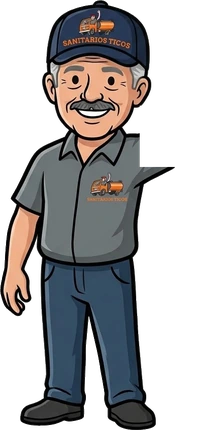
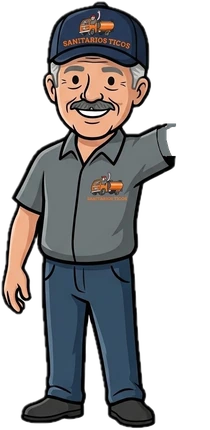
Cortar a Frank por la costura y darle respiración
EL RECORTE QUE SE VEÍA. El corte anterior partía el hombro con una
línea vertical y al girar el brazo quedaba a la vista. Ahora sigue la
costura de la manga: se detecta por color dónde empieza la piel en cada
fila —el gris de la camisa y el durazno del brazo se separan solos— y
se corta cinco píxeles antes para llevarse el contorno. La manga se
queda en el cuerpo y tapa la juntura, y el hueco de abajo se pinta del
gris de la camisa sin salirse de la silueta.

EL ORIGINAL. Llegó el PNG con transparencia de verdad, con casi treinta
mil píxeles semitransparentes de borde suavizado. Todo se rehizo desde
ahí en vez de desde mi reconstrucción del JPEG.

VIDA. Respira: pixel y medio cada 4,2 segundos, en un envoltorio propio
para que no se pelee con el transform de entrada y salida. Y al abrir
el chat baja el brazo y se mete detrás del botón en vez de desaparecer
de un frame, que se lee como un error.

Se descartaron el parpadeo y el giro de cabeza: a 44px la cara son
catorce píxeles y los ojos dos, así que serían ruido y no vida.

Un bug de paso: el envoltorio que respira es un span y lo cazaba la
regla que esconde las etiquetas en el teléfono, así que el botón salía
vacío. La regla ahora sólo alcanza a los hijos directos.

diff --git a/styles.css b/styles.css
@@ -954,16 +954,27 @@ body.fabs-fuera .wa-fab {
   position: absolute; left: .55rem; bottom: 0;
   width: 44px; height: 90px;
 }
+/* Dos envoltorios y no uno: `.frank` se encarga de entrar y salir,
+   `.frank-vivo` de respirar. Si compartieran elemento se pelearían por
+   el mismo `transform` y uno le pisaría el otro. */
+.asistente-fab .frank-vivo {
+  position: absolute; inset: 0;
+  animation: frankRespira 4.2s ease-in-out infinite;
+}
 .asistente-fab .frank img {
   position: absolute; inset: 0; width: 100%; height: 100%;
-  /* Un dibujo de línea encogido a 44px se ensucia si el navegador lo
-     suaviza de más. */
-  image-rendering: auto;
 }
 .asistente-fab .frank-brazo {
-  /* El hombro, medido sobre el dibujo original. */
-  transform-origin: 69.2% 35.3%;
+  /* El hombro, medido sobre el dibujo. El corte del brazo sigue la
+     costura de la manga —no una línea recta— así que la manga se queda
+     en el cuerpo y tapa la juntura mientras el brazo gira. */
+  transform-origin: 76% 33.7%;
   animation: frankSaluda 6s var(--ease-soft) infinite;
+}
+/* Respira. Un pixel y medio en noventa: no se ve, se siente. */
+@keyframes frankRespira {
+  0%, 100% { transform: translateY(0); }
+  50%      { transform: translateY(-1.5px); }
 }
 /* Saluda tres veces y descansa. Un muñeco que se mueve sin parar deja
    de ser simpático a los diez segundos. */
@@ -975,10 +986,29 @@ body.fabs-fuera .wa-fab {
   78% { transform: rotate(-4deg); }
   82% { transform: rotate(-17deg); }
 }
-/* Al pasarle el mouse saluda de una, sin esperar el turno. */
+/* Al pasarle el mouse saluda de una, sin esperar el turno, y se
+   endereza un poco. */
 .asistente-fab:hover .frank-brazo { animation: frankSaluda 1.4s var(--ease-soft) infinite; animation-delay: -.86s; }
+.asistente-fab:hover .frank-vivo { animation-duration: 2.4s; }
+
+/* Al abrir el chat no desaparece de golpe: baja el brazo y se mete
+   detrás del botón. Desaparecer de un frame se lee como un error. */
+.asistente-fab .frank {
+  transition: transform .32s var(--ease), opacity .24s var(--ease);
+}
+.asistente.is-open .asistente-fab .frank.ico-abrir {
+  display: block;
+  transform: translateY(105%);
+  opacity: 0;
+  pointer-events: none;
+}
+.asistente.is-open .asistente-fab .frank-brazo { animation: none; transform: rotate(0deg); }
+.asistente.is-open .asistente-fab { padding-left: 0; }
+
 @media (prefers-reduced-motion: reduce) {
-  .asistente-fab .frank-brazo, .asistente-fab:hover .frank-brazo { animation: none; }
+  .asistente-fab .frank-brazo, .asistente-fab:hover .frank-brazo,
+  .asistente-fab .frank-vivo { animation: none; }
+  .asistente-fab .frank { transition: none; }
 }
 
 .asistente-cab .avatar img { border-radius: 50%; object-fit: cover; }
@@ -1299,7 +1329,10 @@ body.fabs-fuera .wa-fab {
      ancho es fijo — quedaban de 216px con el texto escondido, o sea dos
      manchas de color. El `:not(.frank)` es para que el muñeco no se
      esconda con el texto: acá él ES el botón. */
-  .wa-fab span, .asistente-fab span:not(.frank) { display: none; }
+  /* Sólo el hijo directo, que es la etiqueta. Sin el `>` esta regla
+     también escondía a `.frank-vivo`, el envoltorio que respira, y el
+     botón quedaba vacío en el teléfono. */
+  .wa-fab > span, .asistente-fab > span:not(.frank) { display: none; }
   .wa-fab, .asistente-fab { width: 3.4rem; min-height: 3.4rem; padding: 0; }
   .asistente-fab { padding-left: 0; }
   .asistente-fab .frank { left: 50%; margin-left: -21px; width: 42px; height: 86px; }

diff --git a/404.html b/404.html
@@ -25,7 +25,7 @@
 <link rel="preconnect" href="https://fonts.gstatic.com" crossorigin>
 <link rel="stylesheet" href="https://fonts.googleapis.com/css2?family=Archivo:wdth,wght@62..125,400..900&display=swap">
 
-<link rel="stylesheet" href="styles.css?v=20260908b">
+<link rel="stylesheet" href="styles.css?v=20260908c">
 <script>document.documentElement.classList.add("js");setTimeout(function(){var d=document.documentElement;if(!d.classList.contains("is-ready"))d.classList.add("rv-rescate");},3000);</script>
 </head>
 <body><header class="head" data-head>
@@ -118,7 +118,7 @@
 
 <div class="asistente" data-asistente>
   <button class="asistente-fab" type="button" data-asistente-abrir aria-expanded="false" aria-controls="asistente-panel">
-    <span class="frank ico-abrir" aria-hidden="true"><img class="frank-cuerpo" src="assets/img/frank-cuerpo.webp" alt="" width="209" height="430"><img class="frank-brazo" src="assets/img/frank-brazo.webp" alt="" width="209" height="430"></span>
+    <span class="frank ico-abrir" aria-hidden="true"><span class="frank-vivo"><img class="frank-cuerpo" src="assets/img/frank-cuerpo.webp" alt="" width="210" height="430"><img class="frank-brazo" src="assets/img/frank-brazo.webp" alt="" width="210" height="430"></span></span>
     <svg class="ico-cerrar" viewBox="0 0 24 24" aria-hidden="true"><path d="M6 6l12 12M18 6L6 18"/></svg>
     <span>Hablar con Frank</span>
   </button>

diff --git a/contacto.html b/contacto.html
@@ -25,7 +25,7 @@
 <link rel="preconnect" href="https://fonts.gstatic.com" crossorigin>
 <link rel="stylesheet" href="https://fonts.googleapis.com/css2?family=Archivo:wdth,wght@62..125,400..900&display=swap">
 
-<link rel="stylesheet" href="styles.css?v=20260908b">
+<link rel="stylesheet" href="styles.css?v=20260908c">
 <script>document.documentElement.classList.add("js");setTimeout(function(){var d=document.documentElement;if(!d.classList.contains("is-ready"))d.classList.add("rv-rescate");},3000);</script>
 <script type="application/ld+json">
 {
@@ -426,7 +426,7 @@
 
 <div class="asistente" data-asistente>
   <button class="asistente-fab" type="button" data-asistente-abrir aria-expanded="false" aria-controls="asistente-panel">
-    <span class="frank ico-abrir" aria-hidden="true"><img class="frank-cuerpo" src="assets/img/frank-cuerpo.webp" alt="" width="209" height="430"><img class="frank-brazo" src="assets/img/frank-brazo.webp" alt="" width="209" height="430"></span>
+    <span class="frank ico-abrir" aria-hidden="true"><span class="frank-vivo"><img class="frank-cuerpo" src="assets/img/frank-cuerpo.webp" alt="" width="210" height="430"><img class="frank-brazo" src="assets/img/frank-brazo.webp" alt="" width="210" height="430"></span></span>
     <svg class="ico-cerrar" viewBox="0 0 24 24" aria-hidden="true"><path d="M6 6l12 12M18 6L6 18"/></svg>
     <span>Hablar con Frank</span>
   </button>

diff --git a/index.html b/index.html
@@ -25,7 +25,7 @@
 <link rel="preconnect" href="https://fonts.gstatic.com" crossorigin>
 <link rel="stylesheet" href="https://fonts.googleapis.com/css2?family=Archivo:wdth,wght@62..125,400..900&display=swap">
 
-<link rel="stylesheet" href="styles.css?v=20260908b">
+<link rel="stylesheet" href="styles.css?v=20260908c">
 <script>document.documentElement.classList.add("js");setTimeout(function(){var d=document.documentElement;if(!d.classList.contains("is-ready"))d.classList.add("rv-rescate");},3000);</script>
 <script type="application/ld+json">
 {
@@ -349,7 +349,7 @@
 
 <div class="asistente" data-asistente>
   <button class="asistente-fab" type="button" data-asistente-abrir aria-expanded="false" aria-controls="asistente-panel">
-    <span class="frank ico-abrir" aria-hidden="true"><img class="frank-cuerpo" src="assets/img/frank-cuerpo.webp" alt="" width="209" height="430"><img class="frank-brazo" src="assets/img/frank-brazo.webp" alt="" width="209" height="430"></span>
+    <span class="frank ico-abrir" aria-hidden="true"><span class="frank-vivo"><img class="frank-cuerpo" src="assets/img/frank-cuerpo.webp" alt="" width="210" height="430"><img class="frank-brazo" src="assets/img/frank-brazo.webp" alt="" width="210" height="430"></span></span>
     <svg class="ico-cerrar" viewBox="0 0 24 24" aria-hidden="true"><path d="M6 6l12 12M18 6L6 18"/></svg>
     <span>Hablar con Frank</span>
   </button>

diff --git a/privacidad.html b/privacidad.html
@@ -25,7 +25,7 @@
 <link rel="preconnect" href="https://fonts.gstatic.com" crossorigin>
 <link rel="stylesheet" href="https://fonts.googleapis.com/css2?family=Archivo:wdth,wght@62..125,400..900&display=swap">
 
-<link rel="stylesheet" href="styles.css?v=20260908b">
+<link rel="stylesheet" href="styles.css?v=20260908c">
 <script>document.documentElement.classList.add("js");setTimeout(function(){var d=document.documentElement;if(!d.classList.contains("is-ready"))d.classList.add("rv-rescate");},3000);</script>
 </head>
 <body>
@@ -177,7 +177,7 @@
 
 <div class="asistente" data-asistente>
   <button class="asistente-fab" type="button" data-asistente-abrir aria-expanded="false" aria-controls="asistente-panel">
-    <span class="frank ico-abrir" aria-hidden="true"><img class="frank-cuerpo" src="assets/img/frank-cuerpo.webp" alt="" width="209" height="430"><img class="frank-brazo" src="assets/img/frank-brazo.webp" alt="" width="209" height="430"></span>
+    <span class="frank ico-abrir" aria-hidden="true"><span class="frank-vivo"><img class="frank-cuerpo" src="assets/img/frank-cuerpo.webp" alt="" width="210" height="430"><img class="frank-brazo" src="assets/img/frank-brazo.webp" alt="" width="210" height="430"></span></span>
     <svg class="ico-cerrar" viewBox="0 0 24 24" aria-hidden="true"><path d="M6 6l12 12M18 6L6 18"/></svg>
     <span>Hablar con Frank</span>
   </button>

diff --git a/nosotros.html b/nosotros.html
@@ -25,7 +25,7 @@
 <link rel="preconnect" href="https://fonts.gstatic.com" crossorigin>
 <link rel="stylesheet" href="https://fonts.googleapis.com/css2?family=Archivo:wdth,wght@62..125,400..900&display=swap">
 
-<link rel="stylesheet" href="styles.css?v=20260908b">
+<link rel="stylesheet" href="styles.css?v=20260908c">
 <script>document.documentElement.classList.add("js");setTimeout(function(){var d=document.documentElement;if(!d.classList.contains("is-ready"))d.classList.add("rv-rescate");},3000);</script>
 
 </head>
@@ -319,7 +319,7 @@
 
 <div class="asistente" data-asistente>
   <button class="asistente-fab" type="button" data-asistente-abrir aria-expanded="false" aria-controls="asistente-panel">
-    <span class="frank ico-abrir" aria-hidden="true"><img class="frank-cuerpo" src="assets/img/frank-cuerpo.webp" alt="" width="209" height="430"><img class="frank-brazo" src="assets/img/frank-brazo.webp" alt="" width="209" height="430"></span>
+    <span class="frank ico-abrir" aria-hidden="true"><span class="frank-vivo"><img class="frank-cuerpo" src="assets/img/frank-cuerpo.webp" alt="" width="210" height="430"><img class="frank-brazo" src="assets/img/frank-brazo.webp" alt="" width="210" height="430"></span></span>
     <svg class="ico-cerrar" viewBox="0 0 24 24" aria-hidden="true"><path d="M6 6l12 12M18 6L6 18"/></svg>
     <span>Hablar con Frank</span>
   </button>

diff --git a/servicios.html b/servicios.html
@@ -25,7 +25,7 @@
 <link rel="preconnect" href="https://fonts.gstatic.com" crossorigin>
 <link rel="stylesheet" href="https://fonts.googleapis.com/css2?family=Archivo:wdth,wght@62..125,400..900&display=swap">
 
-<link rel="stylesheet" href="styles.css?v=20260908b">
+<link rel="stylesheet" href="styles.css?v=20260908c">
 <script>document.documentElement.classList.add("js");setTimeout(function(){var d=document.documentElement;if(!d.classList.contains("is-ready"))d.classList.add("rv-rescate");},3000);</script>
 
 </head>
@@ -283,7 +283,7 @@
 
 <div class="asistente" data-asistente>
   <button class="asistente-fab" type="button" data-asistente-abrir aria-expanded="false" aria-controls="asistente-panel">
-    <span class="frank ico-abrir" aria-hidden="true"><img class="frank-cuerpo" src="assets/img/frank-cuerpo.webp" alt="" width="209" height="430"><img class="frank-brazo" src="assets/img/frank-brazo.webp" alt="" width="209" height="430"></span>
+    <span class="frank ico-abrir" aria-hidden="true"><span class="frank-vivo"><img class="frank-cuerpo" src="assets/img/frank-cuerpo.webp" alt="" width="210" height="430"><img class="frank-brazo" src="assets/img/frank-brazo.webp" alt="" width="210" height="430"></span></span>
     <svg class="ico-cerrar" viewBox="0 0 24 24" aria-hidden="true"><path d="M6 6l12 12M18 6L6 18"/></svg>
     <span>Hablar con Frank</span>
   </button>

diff --git a/panel.html b/panel.html
@@ -9,7 +9,7 @@
 <link rel="preconnect" href="https://fonts.googleapis.com">
 <link rel="preconnect" href="https://fonts.gstatic.com" crossorigin>
 <link rel="stylesheet" href="https://fonts.googleapis.com/css2?family=Inter:wght@400;500;600;700&display=swap">
-<link rel="stylesheet" href="styles.css?v=20260908b">
+<link rel="stylesheet" href="styles.css?v=20260908c">
 <style>
   /* =========================================================
      Panel interno — v3

diff --git a/DIRECCION-DE-ARTE.md b/DIRECCION-DE-ARTE.md
@@ -922,6 +922,14 @@ solo a los 3,6 segundos.
 
 ## 21. Frank
 
+### 21.0 Se rehizo con el original
+
+El propietario entregó después el **PNG con transparencia de verdad**:
+29.413 píxeles semitransparentes, o sea bordes suavizados. Todo el
+corte se rehízo desde ahí. Lo de abajo queda como registro de qué se
+hizo mientras sólo estaba el JPEG, y de por qué una captura de un PNG
+no sustituye al PNG.
+
 ### 21.1 El archivo llegó sin transparencia
 
 El dibujo entregado es un **JPEG**, y el JPEG no guarda transparencia:
@@ -967,6 +975,29 @@ Dos cosas que costaron y quedan anotadas:
   aparecía una lasca azul oscura al lado de la cabeza. El corte excluye
   todo lo que quede a la izquierda de x=305 por encima de y=210, que es
   donde el brazo ya no está.
+- **El corte recto se veía.** La primera versión partía el hombro con
+  una línea vertical, y al girar el brazo quedaba a la vista. Ahora el
+  corte sigue la **costura de la manga**: se detecta por color dónde
+  empieza la piel en cada fila —el gris de la camisa y el durazno del
+  brazo se separan solos— y se corta cinco píxeles antes para llevarse
+  el contorno. La manga se queda en el cuerpo y tapa la juntura. El
+  hueco que queda debajo se pinta del gris de la camisa sin salirse de
+  la silueta, así que si algo asoma, asoma hombro.
+
+### 21.4 Qué sí se nota a 44px y qué no
+
+A tamaño de botón Frank mide 44×90: la cara son 14px y los ojos dos.
+Se descartaron el parpadeo y el giro de cabeza — a esa escala son
+ruido, no vida. Lo que sí se lee:
+
+- El **saludo** (la mano recorre unos 8px).
+- La **respiración**: pixel y medio, cada 4,2 segundos. No se ve, se
+  siente.
+- Que al **abrir el chat** baje el brazo y se meta detrás del botón en
+  vez de desaparecer de un frame, que se lee como un error.
+
+Si algún día Frank aparece más grande —dentro del panel del chat, o en
+la página de contacto— ahí sí valen el parpadeo y el giro de cabeza.
 
 Saluda tres veces y descansa cuatro segundos. Un muñeco que se mueve
 sin parar deja de ser simpático a los diez segundos. Al pasarle el
